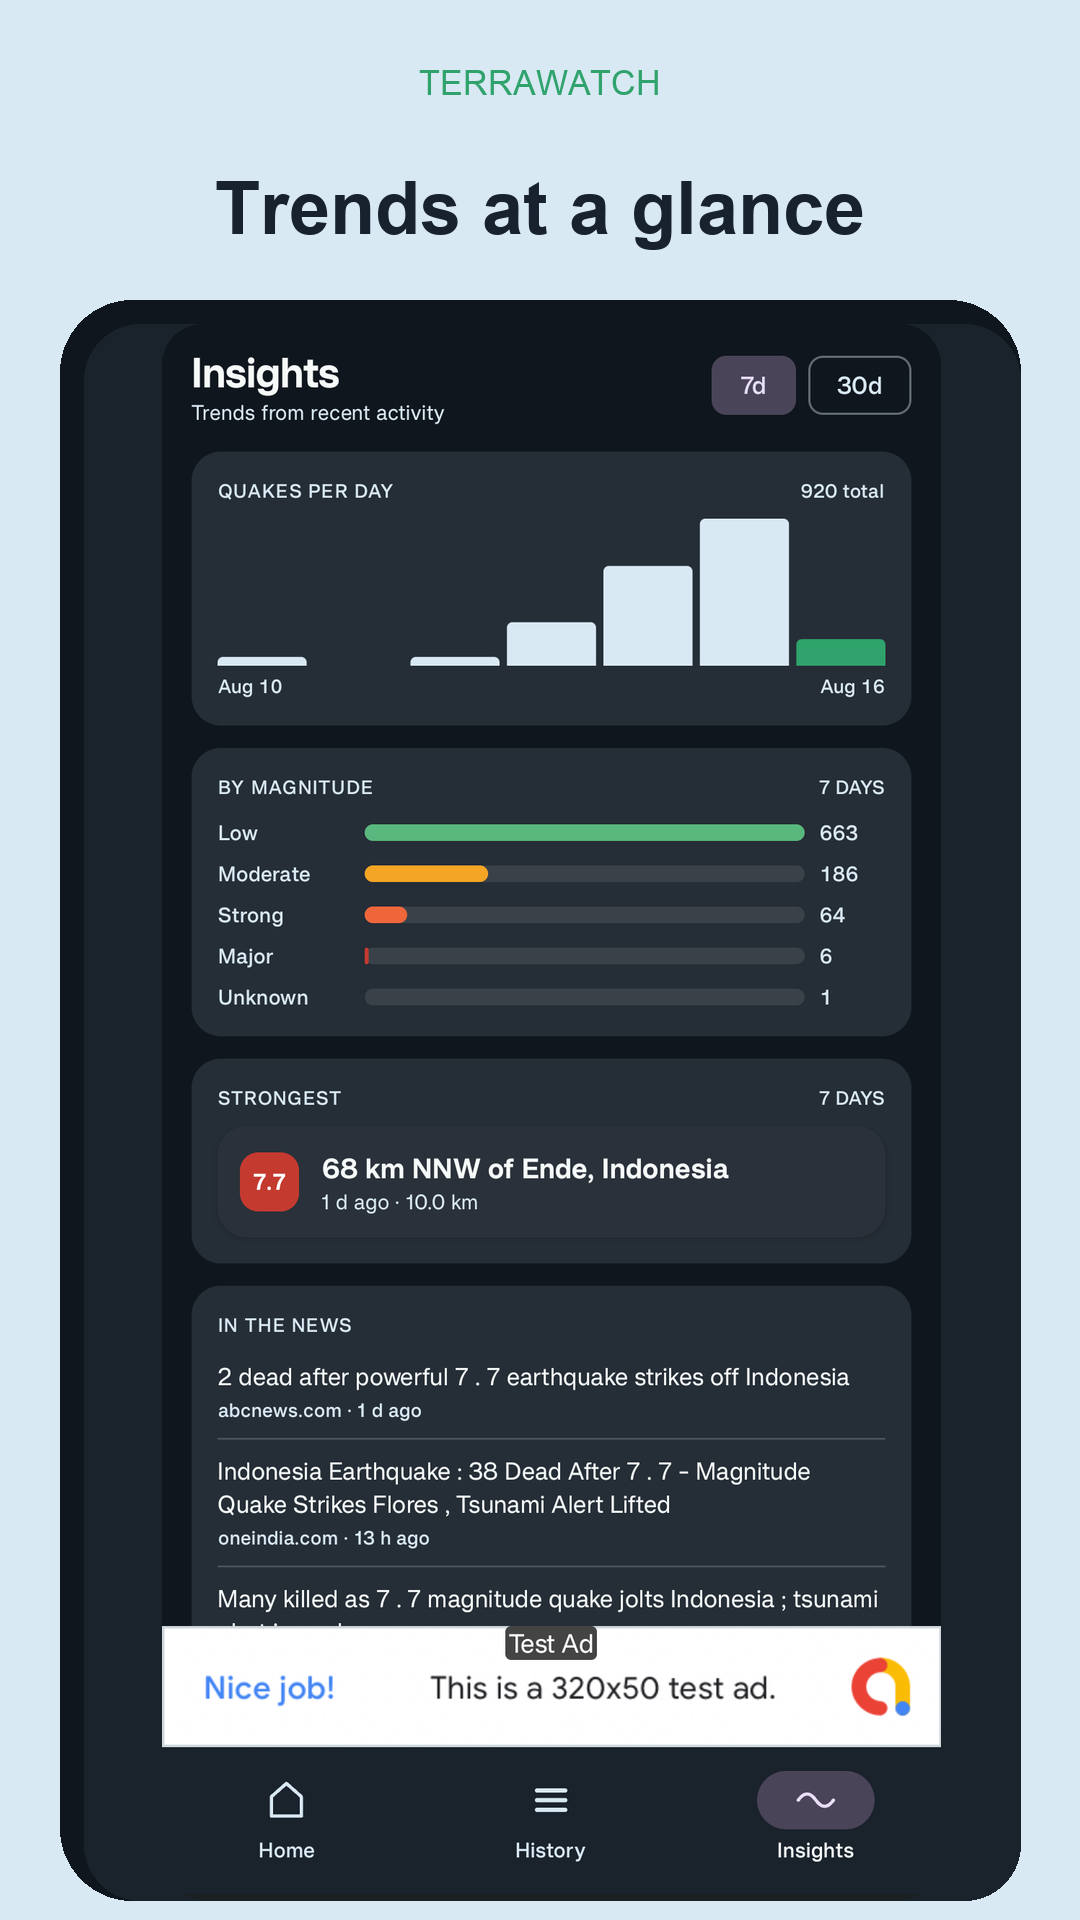
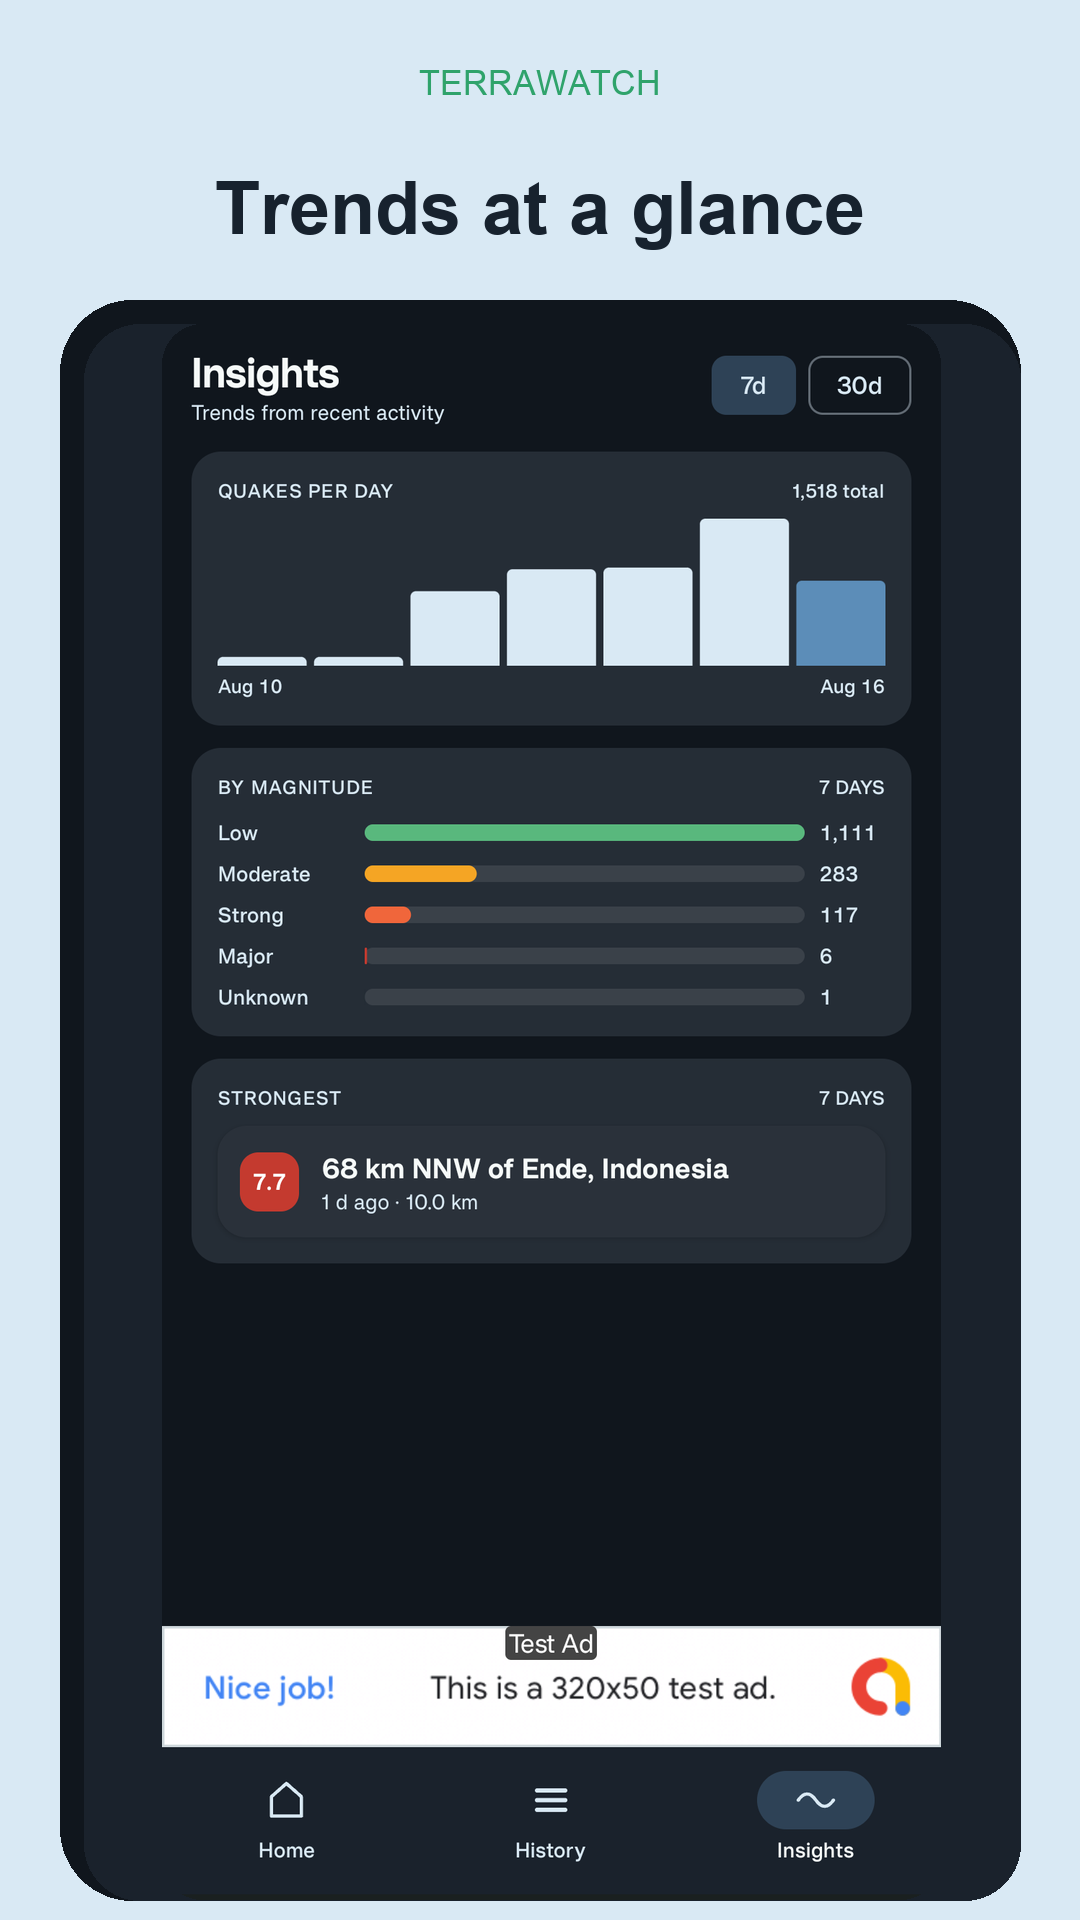
Final-review fixes: scrub disabled news feature from store/social copy
- listing.md + social/copy.md: remove all 'In the news' claims (feature
  disabled via NewsFeature.ENABLED=false; assets must not advertise it)
- 03-insights.png re-captured on device with kill-switch build: no news
  card, new color scheme visible (no stock purple); re-framed
- ci.yml: add :core:database:verifySqlDelightMigration to test step
- ui-polish-findings.md: drop absolute local path

diff --git a/store-assets/social/copy.md b/store-assets/social/copy.md
@@ -32,13 +32,13 @@ paraphrased from the plan brief:
   (spec §6.5)"), `SettingsScreen.kt`'s real off-state copy ("earthquake digests can't be delivered"),
   and spec §6.5 itself.
 - Data sources: `SettingsScreen.kt:723-724` ("Data sources: USGS · EMSC", "© OpenStreetMap contributors"),
-  `QuakeMap.android.kt:67` (OpenFreeMap/OpenMapTiles), GDELT for news (`GdeltClient.kt`, fixed this
-  branch's Task 2b). README confirms "Free APIs, no keys" — no backend server exists.
-  Every source named below is one of these four; nothing else is claimed.
-- Favorites + per-place alert types (Task 2), my-location FAB + cold-start centering (Task 1), and the
-  "In the news" fix (Task 2b) are real, CODE COMPLETE on this branch today (device verification still
-  pending per progress.md — copy below describes what the app *does*, not a QA sign-off, so this is
-  still honest to reference).
+  `QuakeMap.android.kt:67` (OpenFreeMap/OpenMapTiles). README confirms "Free APIs, no keys" — no
+  backend server exists. Every source named below is one of these three; nothing else is claimed.
+  (GDELT news EXISTS in code but is disabled via `NewsFeature.ENABLED = false` since 2026-08-16 —
+  never mention news in public copy while the flag is off.)
+- Favorites + per-place alert types (Task 2) and my-location FAB + cold-start centering (Task 1)
+  are real, CODE COMPLETE on this branch (device-verified in the round-2 pass — copy below
+  describes what the app *does*).
 - **Plus/monetization**: `PaywallScreen.kt`'s real `PLUS_BENEFITS` = "Remove ads", "Unlimited favorite
   places", "Custom alert rules (coming soon)" — but the buy button is still a disabled stub (no
   RevenueCat key yet; `store-assets/listing.md`'s own content-rating table: "No purchases are live
@@ -140,7 +140,7 @@ and EMSC, the same public seismic feeds agencies and researchers use.
 
 This walkthrough:
 0:00 Cold open — live global map, magnitude-colored pins
-0:XX Tap a quake — full detail sheet + related news
+0:XX Tap a quake — full detail sheet (magnitude, depth, distance, revisions)
 0:XX Set your radius — the ring that defines "nearby"
 0:XX A digest alert arriving (honest framing: not early-warning)
 0:XX History archive — filter by magnitude and year
@@ -248,9 +248,9 @@ on Android. Building in public for #Shipaton2026.
 
 > **2/5**
 > Everything TerraWatch shows comes from free, public feeds — USGS realtime + FDSN archive, EMSC's
-> live WebSocket, OpenFreeMap/OSM for the map, GDELT for related news. No API keys, no backend
-> server, no bill. The same data seismologists already use.
-> *(247 chars)*
+> live WebSocket, OpenFreeMap/OSM for the map. No API keys, no backend server, no bill. The same
+> data seismologists already use.
+> *(222 chars)*
 
 > **3/5**
 > Under the hood: Kotlin Multiplatform + Compose Multiplatform. One codebase, shared logic

diff --git a/docs/superpowers/plans/2026-08-16-ui-polish-findings.md b/docs/superpowers/plans/2026-08-16-ui-polish-findings.md
@@ -163,7 +163,7 @@ Industry convention (Android's own Sharesheet mechanism, plus general share-icon
 - `org.jetbrains.compose.material3:material3:1.8.2` sources jar — `ModalBottomSheet.kt` (drag-handle/scrim accessibility semantics), `tokens/ColorDarkTokens.kt`, `tokens/ColorLightTokens.kt`, `tokens/PaletteTokens.kt` (secondaryContainer defaults), `tokens/MotionTokens.kt` (duration/easing tokens).
 - `org.jetbrains.compose.animation:animation-core:1.9.0` sources jar — `VectorizedAnimationSpec.kt` (`Spring` damping-ratio/stiffness presets).
 
-**TerraWatch repo files read directly** (all under `/Users/shubhammishra/workspace/YugMa/terrawatch/`): `core/ui/src/commonMain/kotlin/com/yugma/terrawatch/ui/theme/{Tokens,TerraTheme}.kt`, `composeApp/src/commonMain/kotlin/com/yugma/terrawatch/detail/DetailSheet.kt`, `core/model/.../model/MagnitudeBand.kt`, `composeApp/.../motion/ReducedMotion.kt`, `core/ui/.../ui/components/{RevisionBadge,StatusShield,SkeletonCard,MagnitudeBadge,TsunamiBanner}.kt`, `core/ui/.../ui/charts/{BarChart,DistributionBars}.kt`, `composeApp/.../home/FeedSheet.kt`, `composeApp/src/androidMain/.../map/QuakeMap.android.kt`, `core/ads/src/androidMain/.../ads/BannerAdSlot.android.kt`, `composeApp/.../nav/AppNav.kt`, `composeApp/.../settings/SettingsScreen.kt`, `composeApp/.../history/HistoryScreen.kt`, `composeApp/.../onboarding/OnboardingScreen.kt`, `gradle/libs.versions.toml`.
+**TerraWatch repo files read directly** (repo-relative paths): `core/ui/src/commonMain/kotlin/com/yugma/terrawatch/ui/theme/{Tokens,TerraTheme}.kt`, `composeApp/src/commonMain/kotlin/com/yugma/terrawatch/detail/DetailSheet.kt`, `core/model/.../model/MagnitudeBand.kt`, `composeApp/.../motion/ReducedMotion.kt`, `core/ui/.../ui/components/{RevisionBadge,StatusShield,SkeletonCard,MagnitudeBadge,TsunamiBanner}.kt`, `core/ui/.../ui/charts/{BarChart,DistributionBars}.kt`, `composeApp/.../home/FeedSheet.kt`, `composeApp/src/androidMain/.../map/QuakeMap.android.kt`, `core/ads/src/androidMain/.../ads/BannerAdSlot.android.kt`, `composeApp/.../nav/AppNav.kt`, `composeApp/.../settings/SettingsScreen.kt`, `composeApp/.../history/HistoryScreen.kt`, `composeApp/.../onboarding/OnboardingScreen.kt`, `gradle/libs.versions.toml`.
 
 **Device screenshots read directly** (all under `docs/qa/plan-5-device-matrix/`): `store/home-map-with-fab-and-chips.png`, `store/detail-sheet-clean-news-error-state.png`, `task3-detail-open-no-ad.png`, `store/insights.png`, `task0-upgrade-install-settings-places.png`, `store/history.png` (plus two locally-generated crops of the last two, for precise pixel-location verification — not committed, scratchpad only).
 

diff --git a/store-assets/listing.md b/store-assets/listing.md
@@ -47,7 +47,6 @@ WHAT IT DOES
   the window you pick.
 • Nearby radius — a ring on the map shows exactly what "nearby" means for your alerts, and you
   choose the distance.
-• In the news — for major quakes, related headlines from public news sources, one tap away.
 
 HONEST BY DESIGN
 TerraWatch does not predict earthquakes and is not a substitute for official emergency alerts,
@@ -59,8 +58,7 @@ PRIVACY
 No account required. Your home location is stored only on this device and is never uploaded
 anywhere — not even to check for nearby quakes (that check runs locally, against a global feed).
 
-Built on public data: USGS and EMSC for quake feeds, OpenFreeMap/OpenStreetMap for map tiles,
-GDELT for related news links.
+Built on public data: USGS and EMSC for quake feeds, OpenFreeMap/OpenStreetMap for map tiles.
 
 TerraWatch is free, supported by ads (Google AdMob) shown between screens — never over the map,
 and never during onboarding. TerraWatch Plus removes ads. More Plus features are in development.
@@ -82,8 +80,9 @@ memory):
   / `InsightsScreen.kt` exactly — `store-assets/screenshots/03-insights.png`.
 - "a ring on the map shows exactly what 'nearby' means": the real radius-ring map overlay —
   `store-assets/screenshots/04-settings-radius-ring.png`.
-- "In the news ... related headlines": `GdeltClient.kt` / `DetailNewsViewModel` /
-  `InsightsNewsViewModel` (Plan 4 Task 5).
+- "In the news" feature REMOVED from this listing 2026-08-16: the news code remains in the app
+  (`GdeltClient.kt` et al.) but is disabled by `NewsFeature.ENABLED = false` (GDELT unreliable
+  from target networks — user decision). Do not re-add the bullet unless the flag is flipped on.
 - "home location is stored only on this device ... never uploaded, not even to check for nearby
   quakes": verified by reading `UsgsApi.kt`'s real method signatures (`fetchFeed`, `queryArchive`,
   `queryCount`) — none take a latitude/longitude parameter. The feed fetch is always global by
